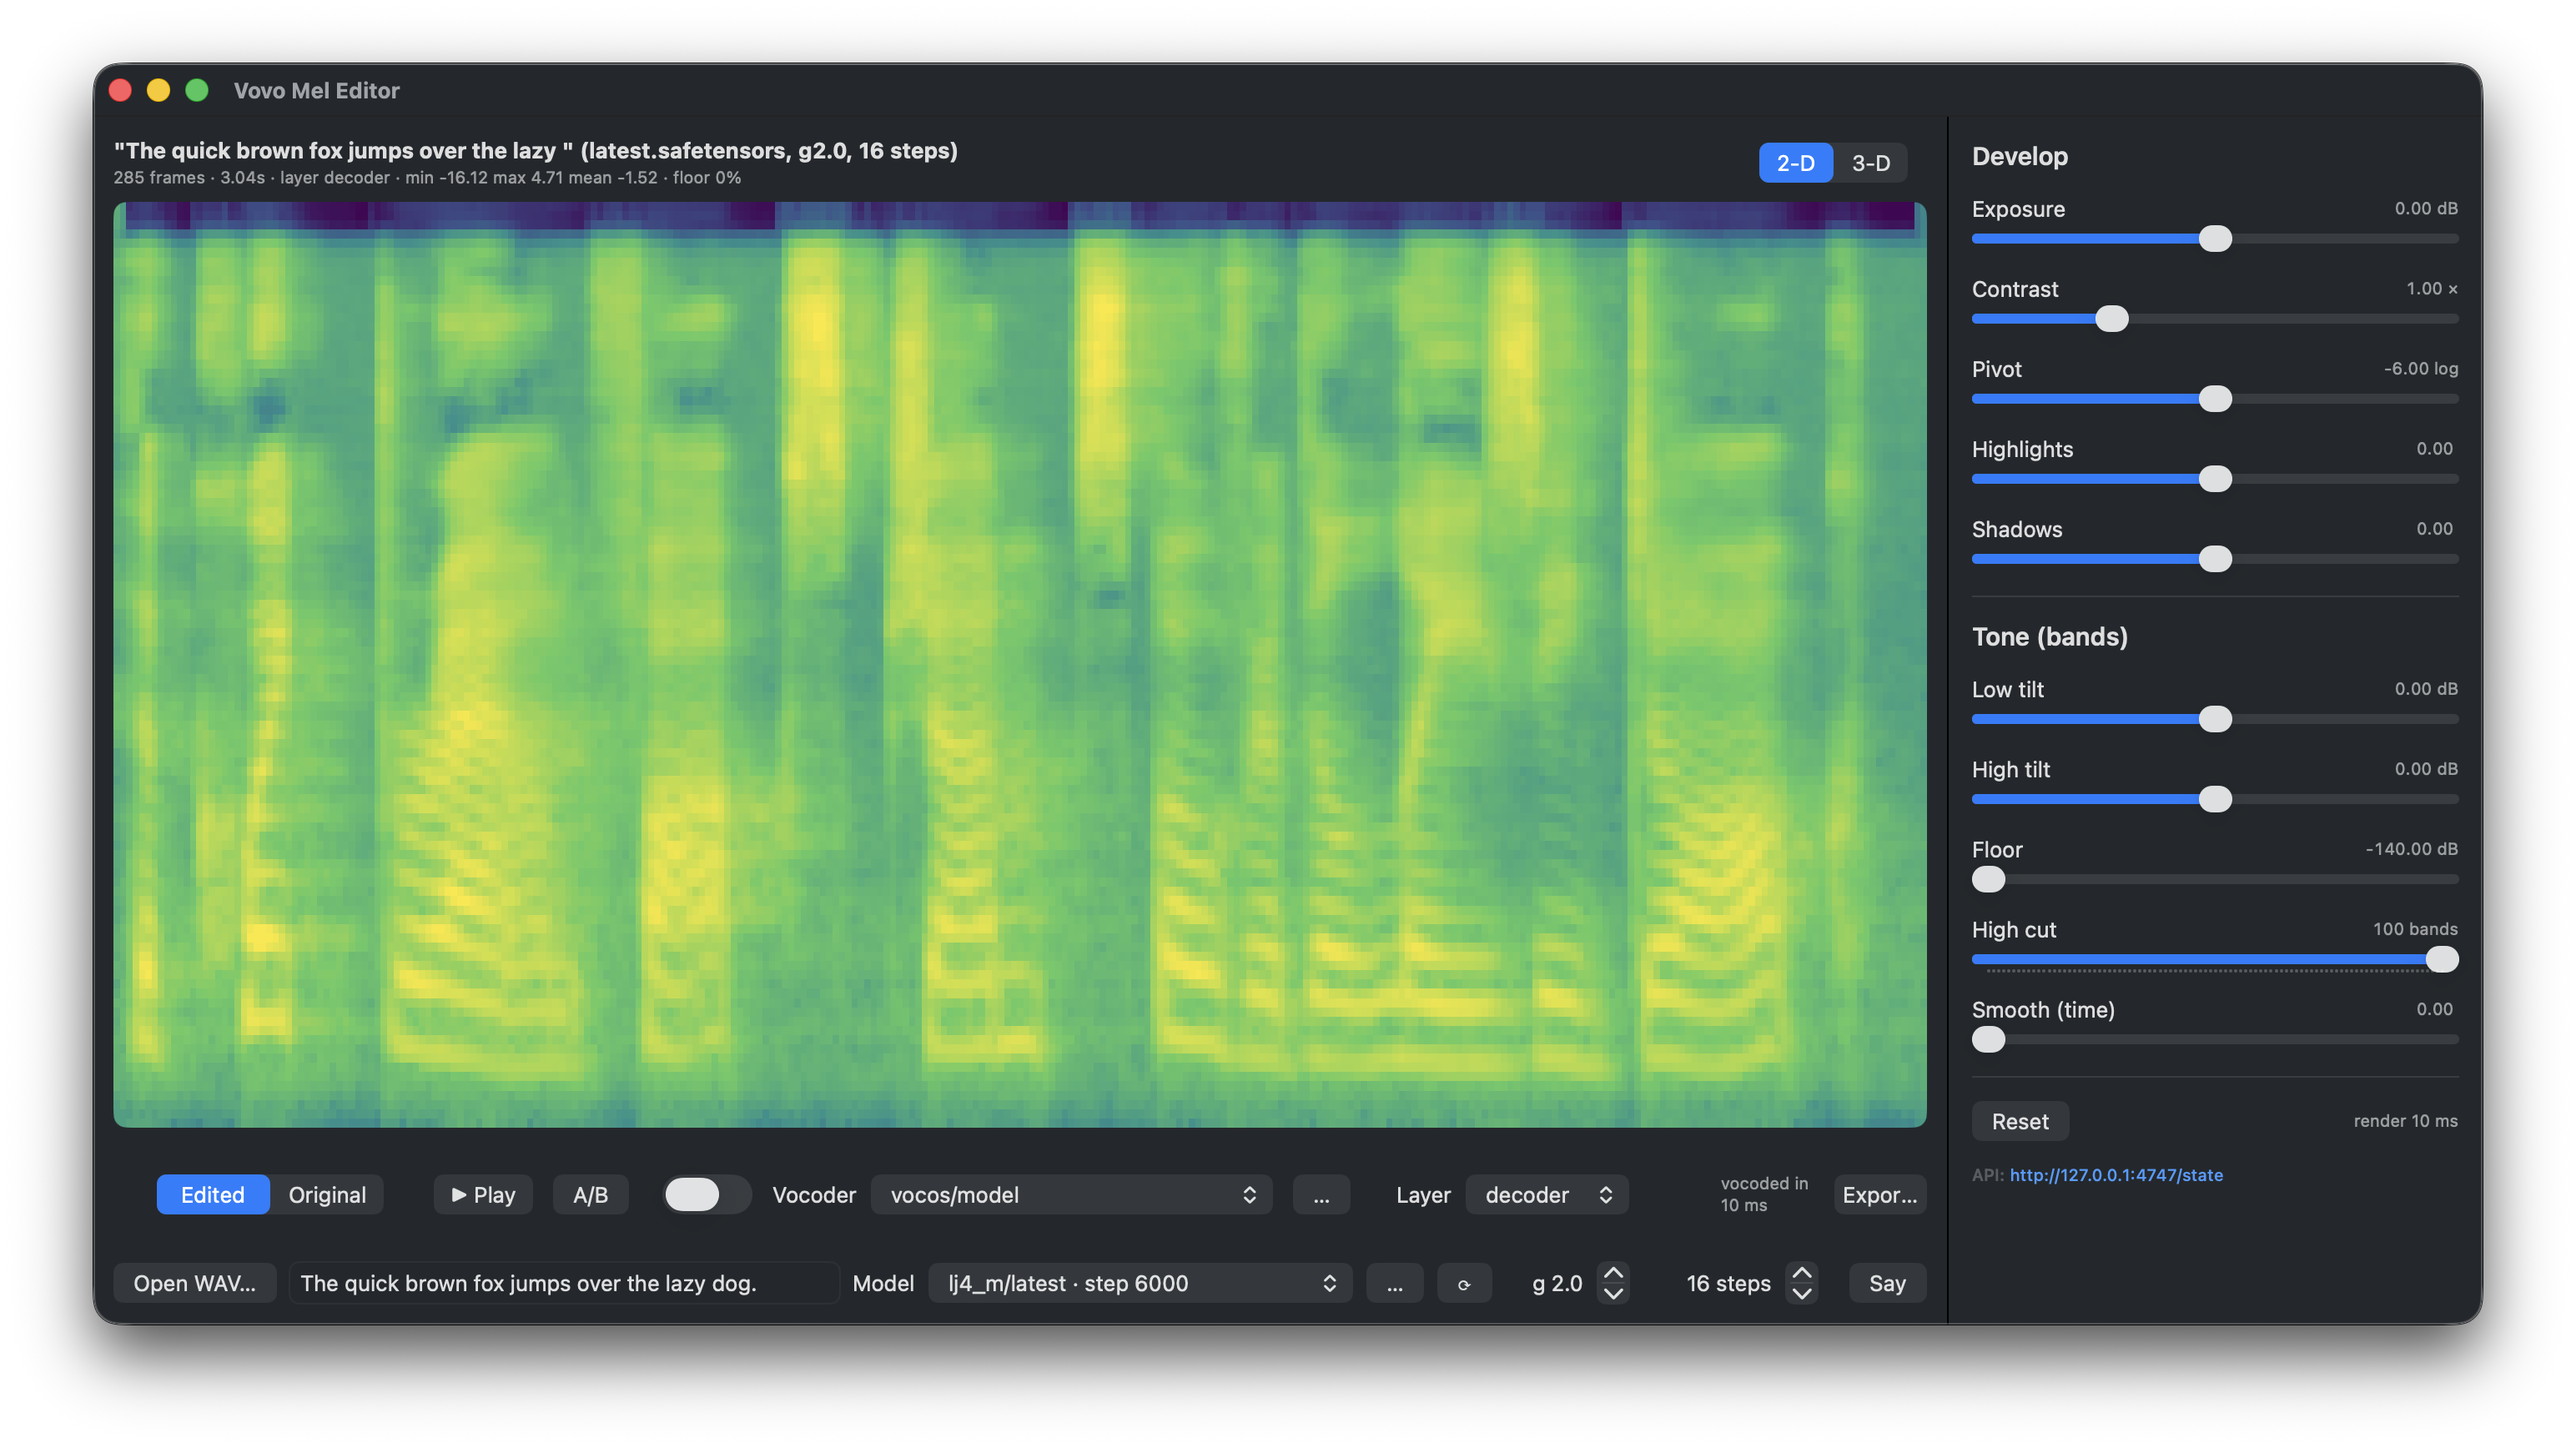
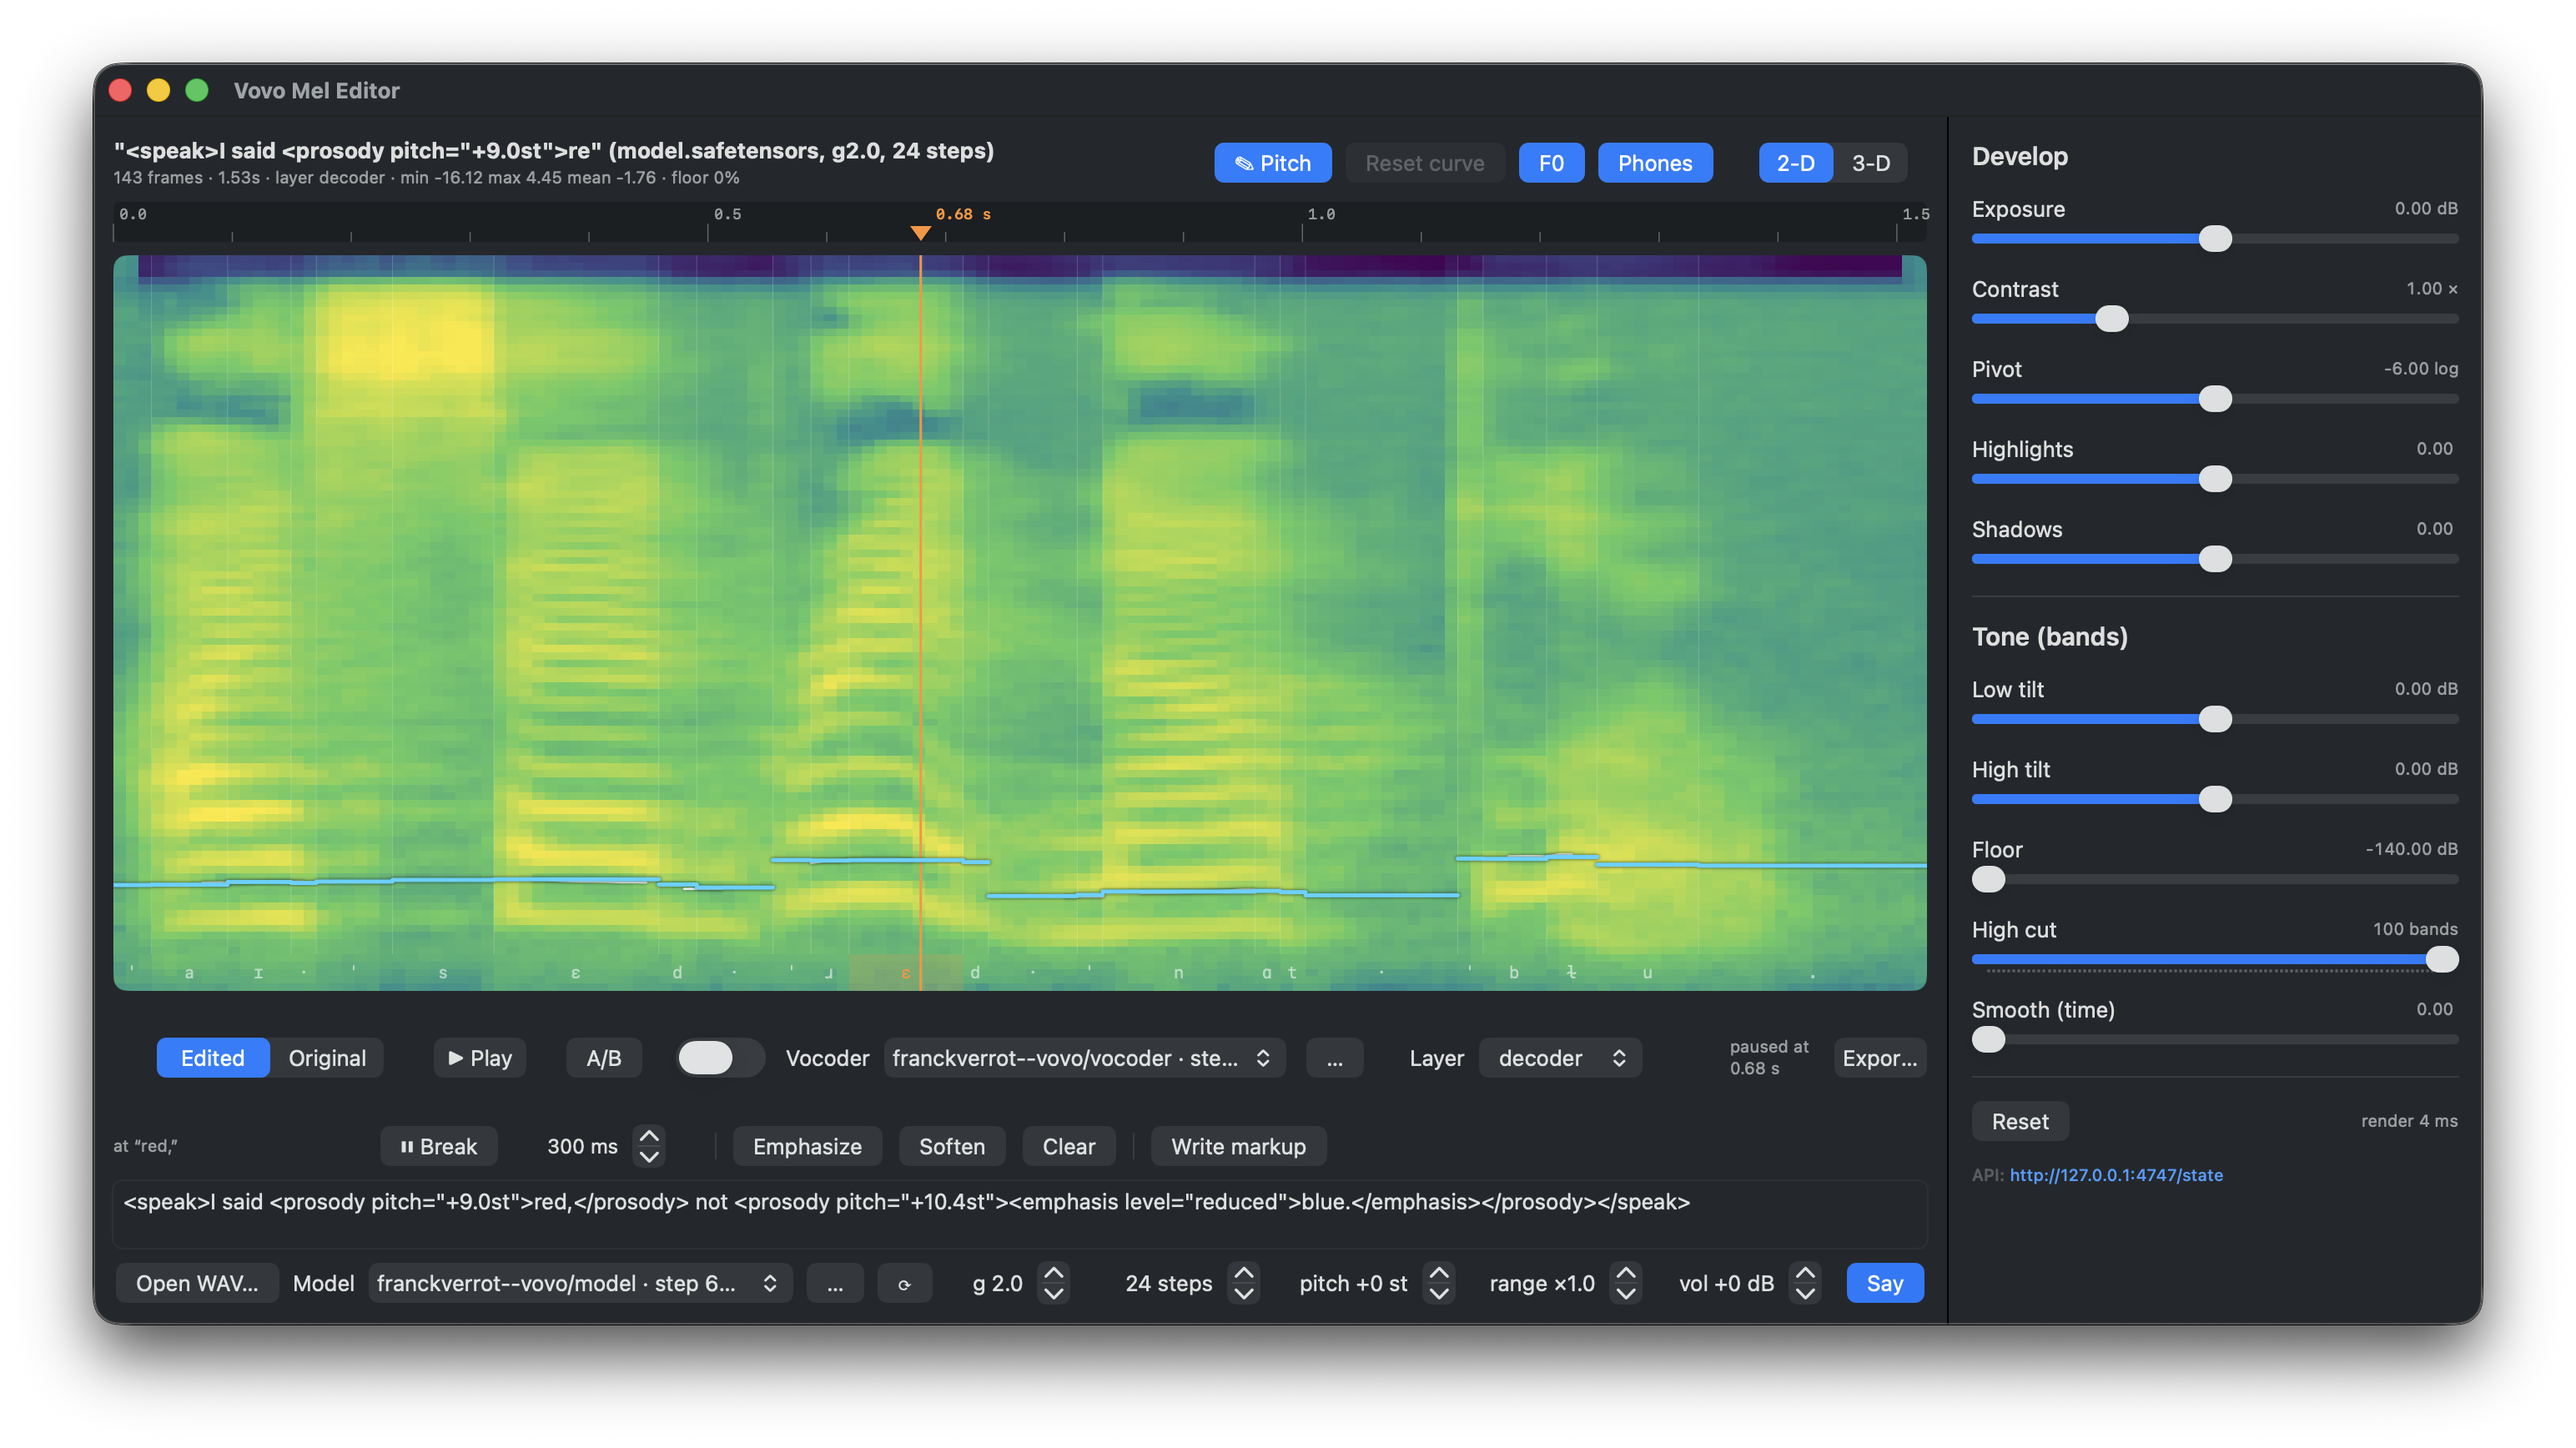
README: the editor, not just the viewer — new screenshot and the SSML round trip
The README described a spectrogram viewer with sliders, which stopped being the whole story when the
timeline, drawable pitch and canvas-to-markup landed. Adds Franck's screenshot of the editor in use (F0
contour, phone ribbon, playhead, and the markup a drag produced) and documents the parts that were
invisible: the timeline, drawing prosody, structural edits, the transport, the prosody knobs, and the
/pitch endpoint that is the whole editing surface over HTTP.

States the write-back accurately: breaks and emphasis reach the text field immediately, pitch drags
accumulate until Write markup. The example markup was checked with `vovo ssml`.

Claude-Session: https://claude.ai/code/session_01ULBxsofNkWZwBBiHqKwv6n

diff --git a/README.md b/README.md
@@ -2,19 +2,29 @@
 
 MelViz is a macOS spectrogram visualizer that shows the actual `[T, 100]` log-mel a TTS model produces.  It lets you re-run the vocoder so you can *hear* the edit, and A/Bs it against the original.  It's all live, and can work mid-sentence.  It was built to help debug [Vovo](https://github.com/franckverrot/vovo-core), a TTS voice model made from-scratch in Swift with Metal kernels, as a tool to find out *where* the model didn't perform properly.
 
-![2-D heatmap](docs/screenshot-2d.png)
+It also went one step further than looking: you can **drag the pitch contour and drop in pauses and emphasis right on the picture**, and the app writes the SSML back into the text box.  Think Adobe Premiere, but for spectrograms.
+
+![The editor: F0 contour and phone ribbon over the mel, a draggable playhead, and the SSML the canvas edits produced](docs/screenshot-2d.png)
+
+Above: a sentence synthesized from SSML.  The blue line is the measured F0 contour, the row of symbols under the mel is the phone each moment is pronouncing, the orange triangle is the playhead (drag it, or scrub anywhere on the ruler), and the text box at the bottom holds markup that was written *by dragging the picture* — `<prosody pitch="+9.0st">` came from pulling the contour up over "red".
 
 ![3-D terrain of the same mel](docs/screenshot-3d.png)
 
 ## What it does
 
+- **Timeline**: the measured F0 contour and a phone ribbon drawn over the mel, a real time ruler with ticks and seconds, and a playhead you can drag or scrub.  You see which sound is being pronounced at any moment, which is what makes a spectrogram legible in the first place.
+- **Draw the prosody**: in ✎ Pitch mode, drag the contour and the phones under your cursor are re-synthesized *from the same starting noise*, so only what you dragged changes — that is the difference between an edit and a re-roll.
+- **Structural edits**: `❚❚ Break` inserts a pause of an exact length at the playhead, `Emphasize` / `Soften` set an emphasis level on the word under it.
+- **It writes the markup**: canvas edits become SSML in the text field — a break or an emphasis lands there as soon as you apply it (`<break time="400ms"/>`, `<emphasis level="strong">`), and pitch drags accumulate until you press **Write markup**, which turns them into `<prosody pitch="+2.2st">` around the words you bent.  The text is the document; the picture is another way to type into it.  Edit either one.
+- **Transport**: Play resumes from the playhead (Pause keeps its position), and the space bar toggles them unless you're typing.
 - **Sources**: any WAV (through the same mel extractor the model trains on), or a sentence synthesized by a Vovo checkpoint, with the decoder output and the encoder's prior μ as switchable layers.
 - **View**: a Metal heatmap on a fixed colormap scale (so level errors don't hide behind auto-scaling), and a SceneKit 3D terrain you can rotate/zoom into.
 - **Develop panel**: exposure, contrast around a pivot, highlights/shadows, low/high spectral tilt, high cut (mute bands above N), floor, temporal smoothing.  Every move re-applies instantly and re-vocodes after a short debounce.
 - **Listen**: Vocos or Griffin-Lim; play, A/B, and a **Live** loop that hot-swaps the audio at the playhead with a 20 ms crossfade so you hear a slider move within ~150 ms without restarting the sentence.
 - **Models**: the downloaded Vovo voice, plus any Vovo acoustic checkpoint / Vocos vocoder you point it at (the Model and Vocoder menus list every `.safetensors` found in the weights folder and under `checkpoints/`, `exports/`, `assets/` of the current directory, classified by reading the file header; `…` browses anywhere).  Switching re-synthesizes / re-vocodes.
+- **Prosody knobs**: guidance, ODE steps, pitch (semitones), range and volume in the bottom bar, applied to the whole sentence — the same controls `vovo say` and `vovo-mlx` expose.
 - **Export**: original and edited WAV + PNG + the parameters as JSON.
-- **Local API** on `127.0.0.1:4747` so the app can be driven and inspected from a shell (or by an agent): `GET /state`, `/mel.png`, `/audio.wav`, `/screenshot.png`, `/models`; `POST /load`, `/params`, `/vocoder`, `/models`, `/play`, `/stop`, `/view`, `/export`.  It's all local, nothing leaves the machine, but that endpoint is not protected so don't expose it to anything.
+- **Local API** on `127.0.0.1:4747` so the app can be driven and inspected from a shell (or by an agent): `GET /state`, `/mel.png`, `/audio.wav`, `/screenshot.png`, `/models`, `/pitch`; `POST /load`, `/params`, `/vocoder`, `/models`, `/play`, `/stop`, `/view`, `/pitch`, `/export`.  `/pitch` is the whole editing surface: `{"phone": 12, "hz": 180}` to bend a note, `{"scrub": 0.68}` to move the playhead, `{"break": 300}` / `{"emphasis": "strong"}` to edit at it, `{"commit": true}` to write the markup out.  It's all local, nothing leaves the machine, but that endpoint is not protected so don't expose it to anything.
 
 
 
@@ -35,6 +45,22 @@ swift build -c release
 
 The app ships without weights: upon first launch, it will offer to download about 135MB of Vovo voice (acoustic files and vocoder,) from `[franckverrot/vovo](https://huggingface.co/franckverrot/vovo)` into
 `~/Library/Application Support/vovo-mel-viz/weights/` and selects them.  Until then, WAVs still load and edit (vocoded with Griffin-Lim).
+
+## Drawing prosody
+
+The loop the app was built around:
+
+1. Type a sentence in the bottom field and press **Say** (or `⌘↵`).
+2. Switch on **✎ Pitch** and drag the blue contour where the reading is wrong — over one word, or across a phrase.  Each drag re-synthesizes from the same noise, so only what you touched moves.
+3. Scrub to a word boundary and press **❚❚ Break** for a pause of an exact length, or **Emphasize** / **Soften** on the word under the playhead.
+4. Press **Write markup**.  The text field now holds the SSML that reproduces what you drew:
+
+```xml
+<speak>I said <prosody pitch="+9.0st">red,</prosody> not
+<prosody pitch="+10.4st"><emphasis level="reduced">blue.</emphasis></prosody></speak>
+```
+
+That markup is portable — it is the same subset `vovo say` and [`vovo-mlx`](https://github.com/franckverrot/vovo-mlx) accept, so a reading you dialed in by hand is something you can ship.
 
 ## Turning some knobs
 
